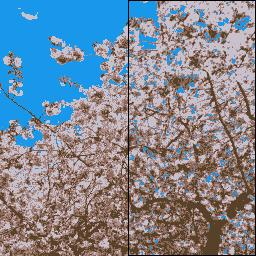
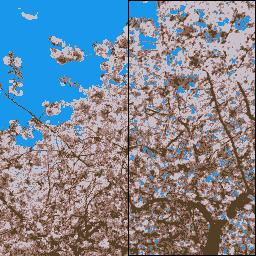
Implement improved agent

diff --git a/util.py b/util.py
@@ -1,9 +1,11 @@
 from random import randrange
 from PIL.Image import open, fromarray
 from numpy import asarray, uint8
+import numpy as np
 from heapq import heappop, heappush, heapify
 from statistics import mean
-
+import random
+import math
 
 def get_data(path):
     img = open(path)
@@ -22,7 +24,7 @@ def split(data):
 def combine(left_data, right_data):
     new_data = []
     for i in range(len(left_data)):
-        new_data.append(left_data[i] + right_data[i])
+        new_data.append((np.concatenate((np.array(left_data[i]), np.array(right_data[i])))))
     return new_data
 
 
@@ -153,14 +155,64 @@ def get_data_for_regression(gray_data, colored_data, rgb):
         if i != 0 and i != len(gray_data) - 1:
             for j, pixel in enumerate(row):
                 if j != 0 and j != len(row) - 1:
-                    X.append([round(gray_data[a][b] / 255, 2) for a in [i - 1, i, i + 1] for b in [j - 1, j, j + 1]])
-                    y.append(round(colored_data[i][j][rgb] / 255, 2))
+                    it = zip([0, 0, 0, -1, 1], [0, -1, 1, 0, 0])
+                    X_temp = []
+                    X_temp.append(1)
+                    for di, dj in it:
+                        X_temp.append(gray_data[i + di][j + dj] / 255)
+                        X_temp.append(math.pow(gray_data[i + di][j + dj] / 255, 2))
+                    X.append(X_temp)
+                    y.append(colored_data[i][j][rgb] / 255)
     return X, y
 
 
+def f(data, weights):
+    return np.dot(data, weights)
+
+
+def loss(f, weights, data):
+    a = [math.pow(f(x, weights) - y, 2) for x, y in data]
+    return sum(a) / len(a)
+
+
+def grad(f, weights, dp, res):
+    return sum([(f(dp, weights) - res) * dp])
+
+
 def find_weights(X, y):
-    return []  # TODO
+    weights = np.zeros(11)
+    X = np.array(X)
+    alpha = 0.0005
+    batch = 200
+    for i in range(5000):
+        idxs = [random.randrange(len(X)) for _ in range(batch)]
+        gradient = weights[:]
+        for dp, res in zip([X[idx] for idx in idxs], [y[idx] for idx in idxs]):
+            gradient -= alpha * grad(f, weights, dp, res) * dp
+        weights = gradient
+    print("Loss: " + str(loss(f, weights, zip(X, y))))
+
+    return weights
 
 
 def improved_coloring(gray_data, red_model, green_model, blue_model):
-    return []  # TODO
+    gray_data = np.array(gray_data)
+    color = []
+    for i, row in enumerate(gray_data):
+        for j, pixel in enumerate(row):
+            if i == 0 or i == len(gray_data) - 1 or j == 0 or j == len(row) - 1:
+                color.extend([0, 0, 0])
+            else:
+                it = zip([0, 0, 0, -1, 1], [0, -1, 1, 0, 0])
+                X_temp = []
+                X_temp.append(1)
+                for di, dj in it:
+                    X_temp.append(gray_data[i + di][j + dj] / 255)
+                    X_temp.append(math.pow(gray_data[i + di][j + dj] / 255, 3))
+
+                color.append(min(max(f(X_temp, red_model) * 255, 0), 255))
+                color.append(min(max(f(X_temp, green_model) * 255, 0), 255))
+                color.append(min(max(f(X_temp, blue_model) * 255, 0), 255))
+
+    color = np.array(color).reshape(len(gray_data), len(gray_data[0]), 3)
+    return color

diff --git a/main.py b/main.py
@@ -18,7 +18,7 @@ def basic_agent(filename, savename):
     # recolored train data
     colored_test_data = basic_coloring(gray_test_data, gray_train_data, recolored_train_data)
     # combine recolored train data with newly colored in test data
-    final_data = combine(recolored_train_data, colored_test_data)
+    final_data = combine(train_data, colored_test_data)
     to_image(final_data, savename)
 
 
@@ -40,10 +40,13 @@ def improved_agent(filename, savename):
     green_model = find_weights(green_X, green_y)
     blue_model = find_weights(blue_X, blue_y)
     # apply the models to the data
-    final_data = improved_coloring(gray_data, red_model, green_model, blue_model)
-    to_image(final_data, savename)
+    final_data = improved_coloring(gray_test_data, red_model, green_model, blue_model)
+    to_image(combine(train_data, final_data), savename)
+    # print(red_model)
+    # print(green_model)
+    # print(blue_model)
 
 
 if __name__ == '__main__':
-    basic_agent('cherry.jpg', 'basic_agent_result.jpg')
+    basic_agent('mountain.jpg', 'basic_agent_result.jpg')
     # improved_agent('cherry.jpg', 'improved_agent_result.jpg')
